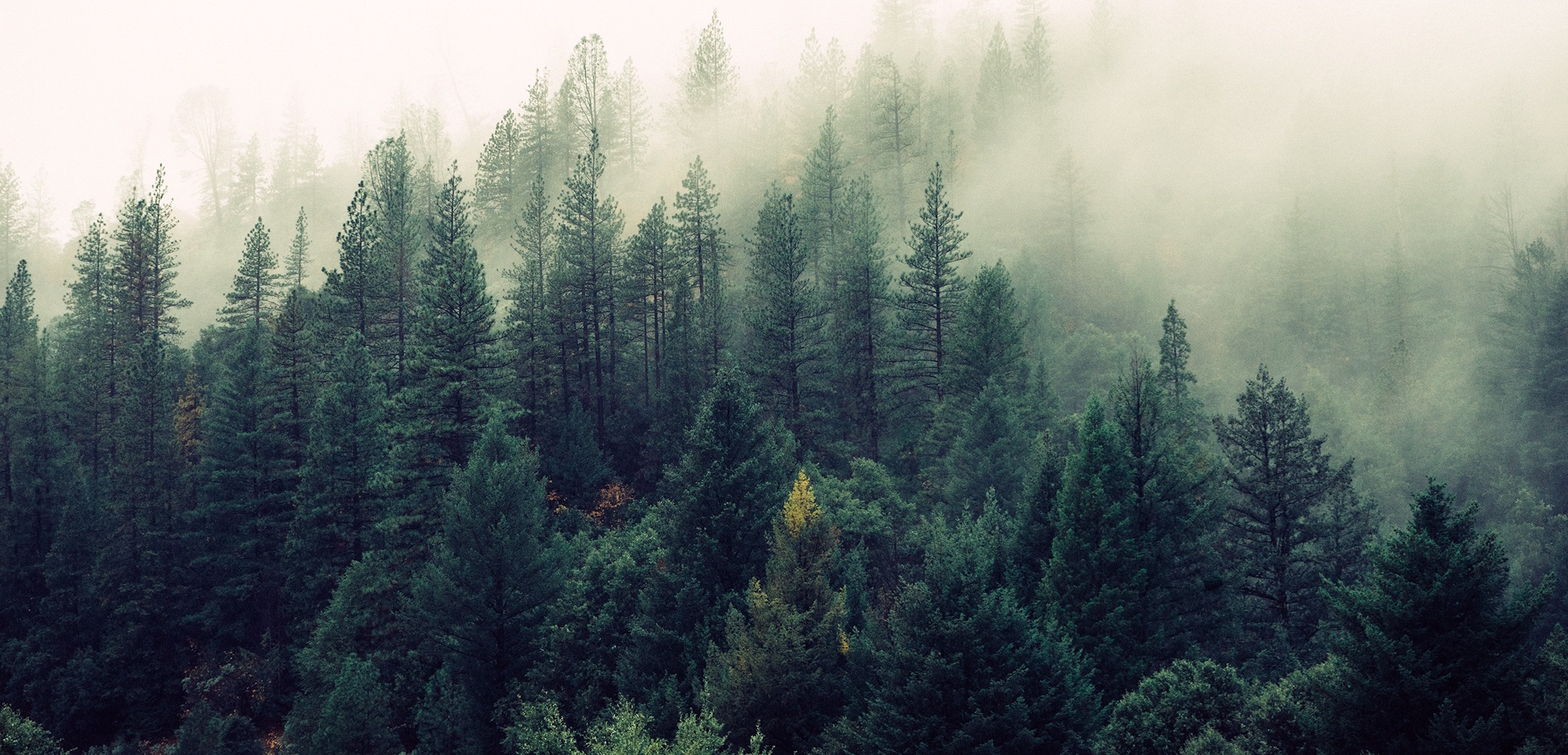
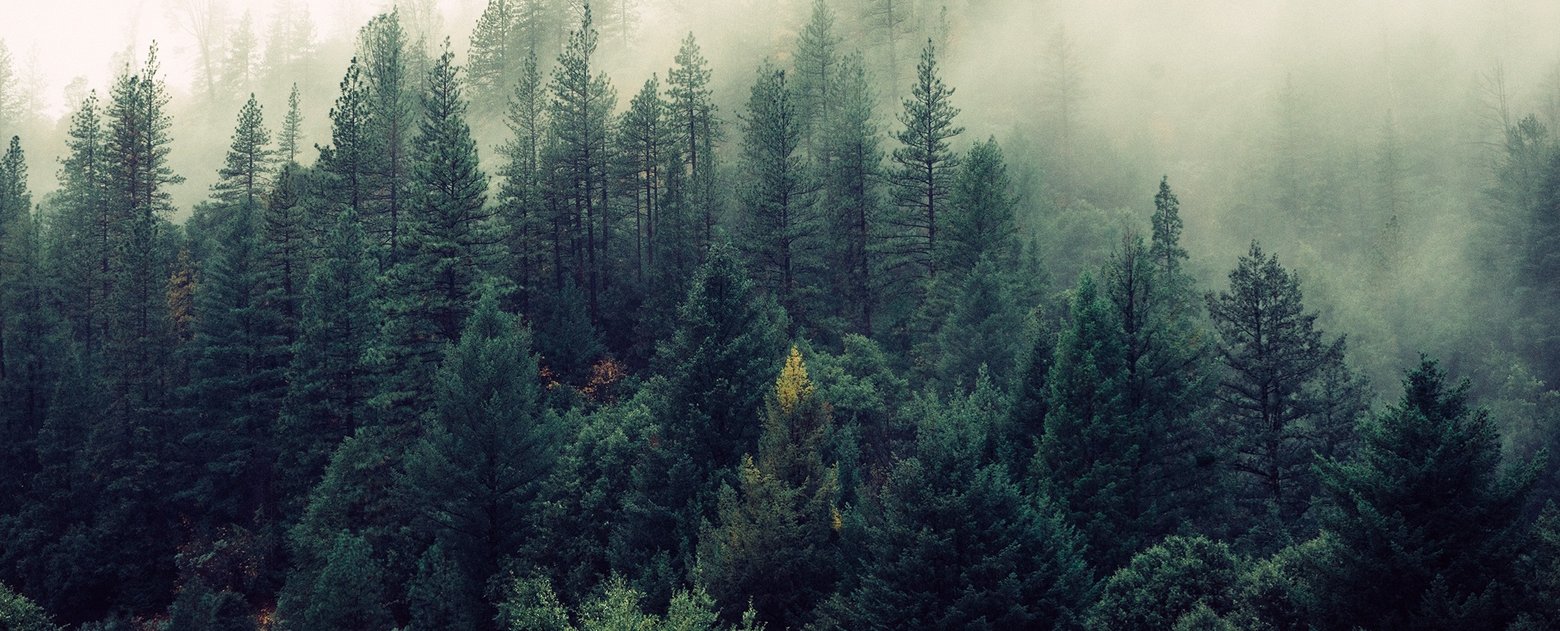
style and head updates

diff --git a/partials/style.css b/partials/style.css
@@ -1,0 +1,145 @@
+
+body{
+    margin: 0px;
+    background-color: #C4B2AC;
+}
+
+a{
+    text-decoration: none;
+    color: whitesmoke;
+    font-size: 1.2em;
+}
+
+/*knapp hamburgare*/
+ .w3-button{
+margin-top: 80px;
+
+
+    }
+.logo{
+    display: flex;
+    justify-content: center;
+    
+}
+.logo img{
+    width: 50%;
+}
+.logosidebar{
+ padding: 40px;
+ margin-top: -40px;
+ 
+}
+
+/* jumbotronen*/
+.w3-blue{
+    background-image: url(image/jumbotron/forest1.jpeg);
+    background-repeat: no-repeat;
+    background-size: cover;
+    height: 200px;
+    
+}
+
+/* email,password, categories, bakgrund sidebar*/
+.w3-sidebar{
+    color:#fff!important;
+    background-color:#113a55!important;
+}
+
+.home-about{
+  margin-top: 20PX;
+  display: flex;
+  justify-content: space-around;
+
+}
+
+/*home och about symbol*/
+i{
+    padding:5px;
+}
+
+/*categories - headline*/
+h3{
+ font-size: 1em;
+ 
+}
+.categories{
+display: flex;
+justify-content: flex-start;
+padding-left: 10px;
+margin-top: 30px;
+   
+}
+
+h4{
+    font-size: 1em;
+    
+}
+
+
+.registrationemail , .registrationpassword{
+  display: flex;
+  justify-content:flex-start;
+  padding-left: 10px;
+  font-size: 0.8em;
+  margin-bottom: -10px;
+}
+
+
+input[type=text] , input[type=password] {
+   background-color: #113a55; 
+   font-size: 0.8em;
+   letter-spacing: 0.05em; 
+   color: whitesmoke;
+    width: 220px;
+}
+
+/*categories buttons*/
+ button[type=submit]{
+    width: 120px;
+    background-color: #113a55;
+    display: flex;
+    align-content: flex-start;
+    margin-left: 10px;
+    font-size: 0.8em;
+    color: whitesmoke;
+    
+}
+
+input[type=submit] {
+    width: 120px;
+    display: flex;
+    align-content: flex-start;
+    margin-left: 10px;
+    background-color: #113a55 ;
+    color: whitesmoke;
+    font-size: 0.8em;
+    
+}
+.register{
+  display: flex;
+  align-content: flex-start;
+  margin-left: 10px;
+  margin-top: -15px;
+  font-size: 0.8em;
+}
+
+
+@media screen and (min-width: 1024px) {
+
+    
+.logosidebar{
+        display: none;
+    }
+    
+.w3-sidebar{
+    margin-top:200px;
+}
+    .w3-button{
+        display: none;
+    }
+    
+    
+    
+}    
+    
+

diff --git a/partials/head.php b/partials/head.php
@@ -4,57 +4,96 @@
     <meta charset="UTF-8">
     <meta name="viewport" content="width=device-width, initial-scale=1.0">
     <title>Document</title>
+    <link rel="stylesheet" href="https://www.w3schools.com/w3css/4/w3.css">
     <link type="text/css" href="style.css" rel="stylesheet">
+    <link rel="stylesheet" href="https://cdnjs.cloudflare.com/ajax/libs/font-awesome/4.7.0/css/font-awesome.min.css">
 </head>
+
 <body>
-    <div class="container">
-
-    <div class="jumbotron">   
-        <div class="logo"> <img src="image/jumbotron/millhouse-logo-white.svg">
-        </div>
-    </div>
-    <nav>
-    <div class="home-about">
-        <a href="index.php">Home </a><a href="about.php"> About</a>
-    </div>
-    <div class="categories">
-    <h3>CATEGORIES</h3>
     
-         <form action="index.php" method="POST">
-             <button type="submit" name="Watches" class="btn btn-default">Watches</button><p></p>
-
-           <button type="submit" name="Sunglasses" class="btn btn-default">Sunglasses</button><p></p>
-
-           <button type="submit" name="Interior" class="btn btn-default">Interior</button>
-
-        </form>
+    
+    <header class="w3-container w3-top w3-blue w3-medium w3-padding-16">
+          <a href="javascript:void(0)" class="w3-left w3-button w3-transparent w3-xxxlarge" onclick="w3_open()">☰</a>
+         
+         <div class="logo"><img src="image/jumbotron/millhouse-logo-white.svg"></div>
+        
+    </header>
+    
+    <div class="container">
+    
+        <nav class="w3-sidebar w3-bar-block w3-white w3-animate-left w3-text-grey w3-collapse w3-top w3-center" style="z-index:3;width:250px;font-weight:bold" id="mySidebar">
+        <br>
+         <div class="logosidebar"><img src="image/jumbotron/millhouse-logo-white.svg"></div>   
+    <div class="home-about">
+        <a href="index.php"><i class="fa fa-home"></i>Home</a>
+        <a href="about.php"><i class="fa fa-users"></i>About</a>
     </div>
-     
-      <form action="partials/login.php" method="POST">
-       
-        <?php if(isset($_SESSION["user"])){ ?>
-            <a href="user_profile.php">My profile</a>
-            <br>
-            <a href="create_post.php">Create post</a>
-            <br>
-            <a href="partials/logout.php">logout</a>
-            <?php } 
-            
-         else{ ?>
-         <h4>Login</h4>
-          <label for="email"> Email </label>
+    
+    <div class="categories">
+        <h3>CATEGORIES</h3>
+</div>
+             <form action="index.php" method="POST">
+               <button type="submit" name="Watches" class="btn btn-default">Watches</button><p></p>
 
-          <input type="text" name="email" class="form-control">
-          <br>
-          <label for="password"> Password </label>
+               <button type="submit" name="Sunglasses" class="btn btn-default">Sunglasses</button><p></p>
 
-          <input type="password" name="password" class="form-control">
-          <br>
-          <input type="submit" class="btn btn-primary">
-           <br>
-            <a href="register_user.php">Register</a>
-            <br>
-            <?php } ?>
-            
-      </form>
+               <button type="submit" name="Interior" class="btn btn-default">Interior</button>
+
+            </form>
+    
+       <div class="menubar">
+         <form action="partials/login.php" method="POST">
+
+            <?php if(isset($_SESSION["user"])){ ?>
+                <a href="user_profile.php">My profile</a>
+                <br>
+                <a href="create_post.php">Create post</a>
+                <br>
+                <a href="partials/logout.php">logout</a>
+                <?php } 
+
+             else{ ?>
+        <div class="categories">
+             <h4>LOGIN</h4>
+        </div>
+        <div class="registrationemail">
+              <label for="email"></label>
+              <input type="text" name="email" class="form-control">
+        </div>
+              <br>
+        <div class="registrationpassword">
+              <label for="password"></label>
+              <input type="password" name="password" class="form-control">
+        </div>
+              <br>
+              <input type="submit" class="btn btn-primary">
+               <br>
+        <div class="register">
+                <a href="register_user.php">Register</a>
+                <br>
+        </div>
+                <?php } ?>
+
+           </form>
+        
+        </div>
+        
     </nav>
+    
+    </div>
+    
+    <script>
+        // Script to open and close sidebar
+        function w3_open() {
+            document.getElementById("mySidebar").style.display = "block";
+        }
+
+        function w3_close() {
+            document.getElementById("mySidebar").style.display = "none";
+        
+        }
+
+    </script>
+    </body>
+
+ 
